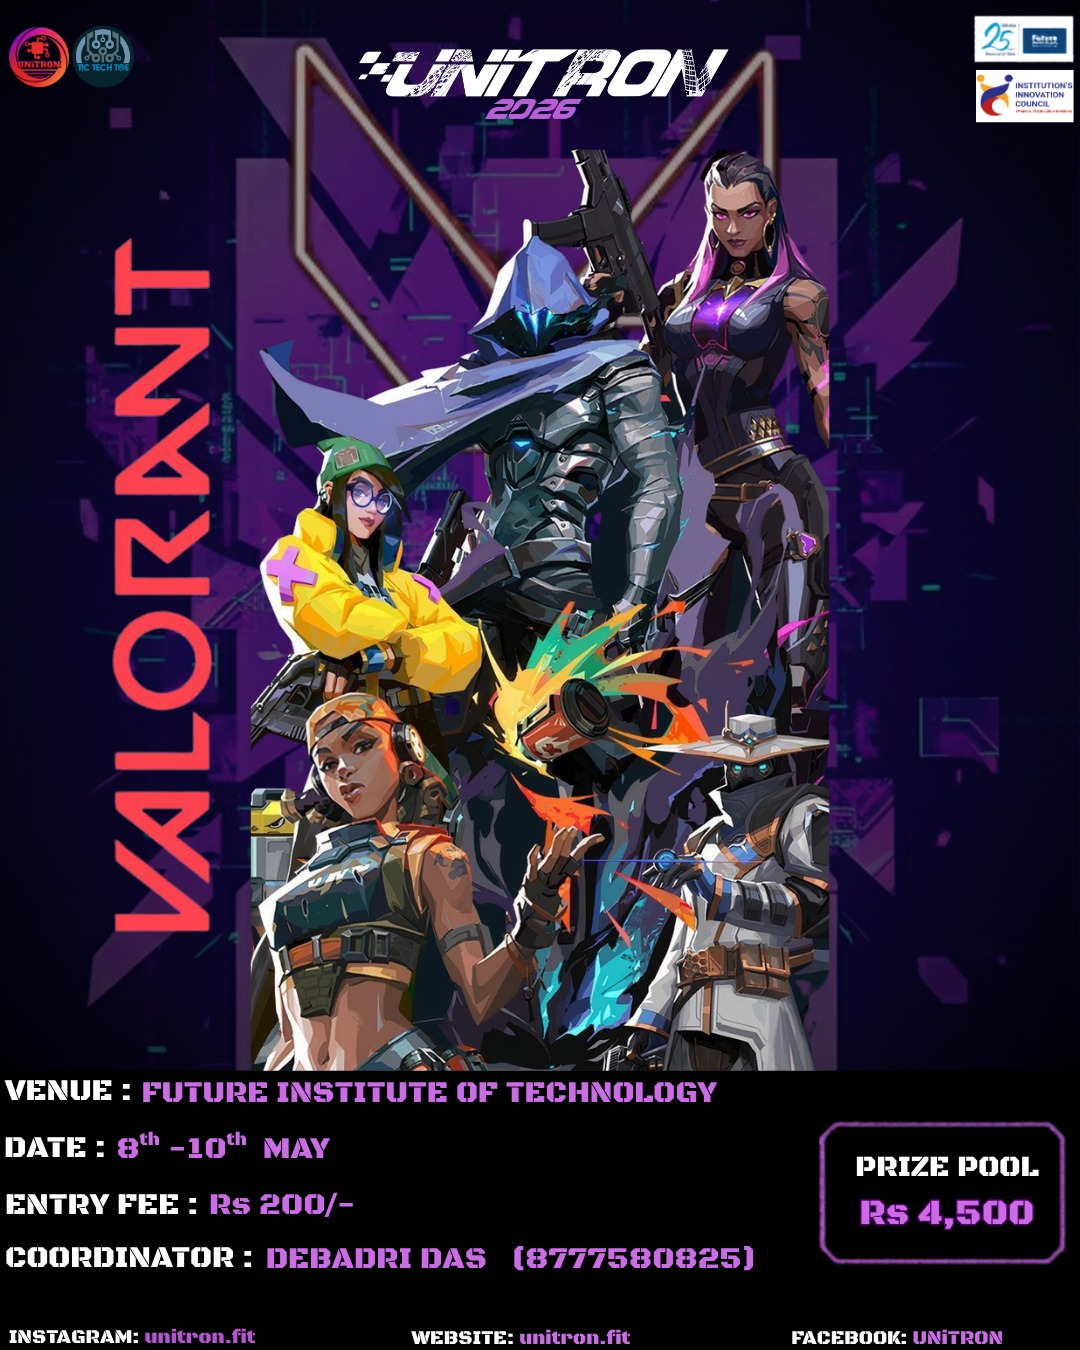
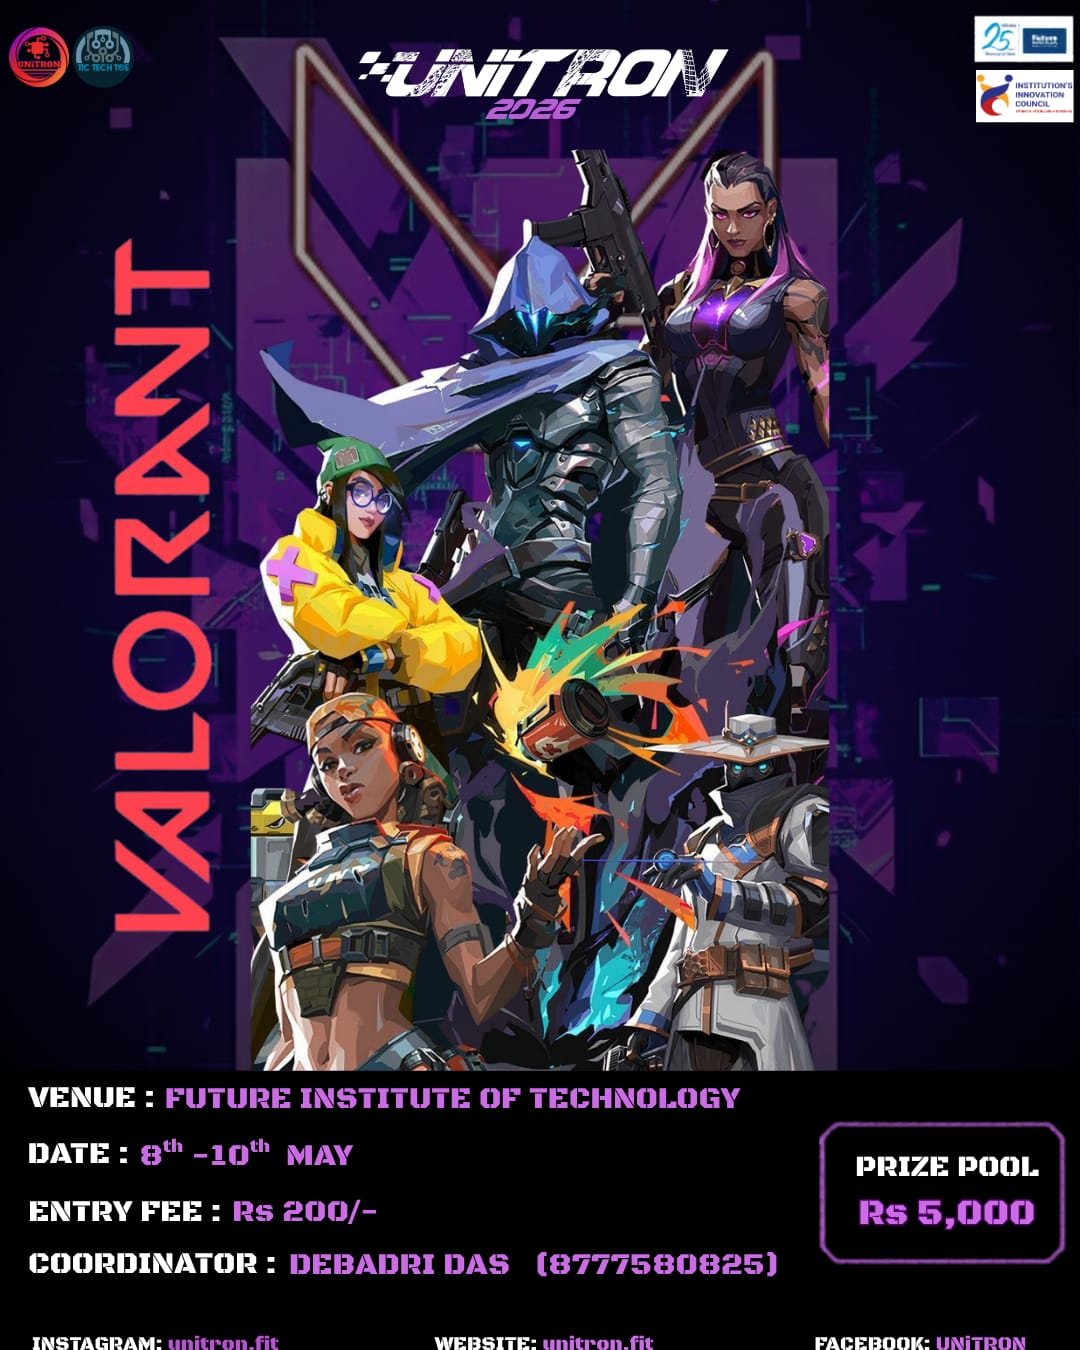
changed the price pool of valo

diff --git a/src/components/allevents.tsx b/src/components/allevents.tsx
@@ -190,7 +190,7 @@ const eventsData: EventData[] = [
     description: '5v5 character-based tactical shooter. Combine precise gunplay with unique agent abilities to secure rounds and win the match.',
     rulebook: '/Rulebook/VALORANT_RULEBOOK.pdf',
     registerLink: "https://forms.gle/F9cRp8R3uXKnKgGz8",
-    prizePool: 'Rs 4,500',
+    prizePool: 'Rs 5,000',
     entryFee: 'Rs 200/-',
     coordinator: 'DEBADRI DAS (8777580825)'
   }
